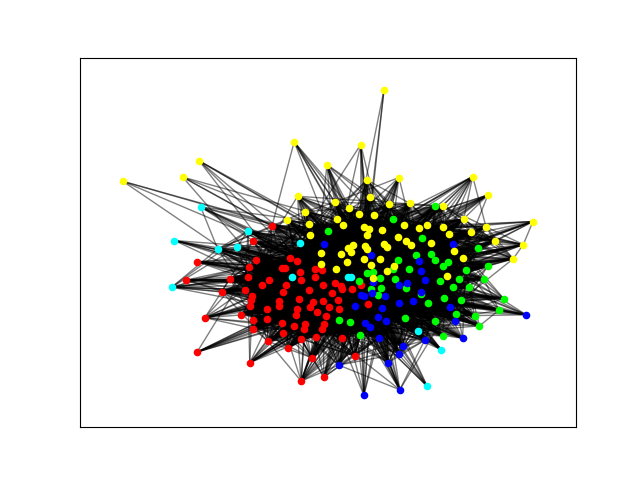
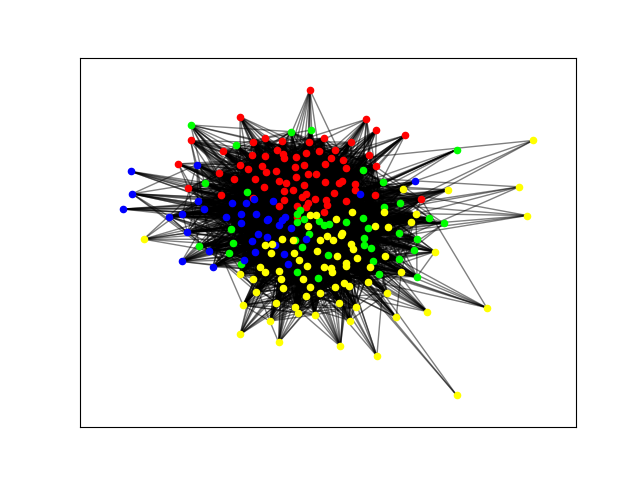
Walktrap Done

Changed region(s): [[0.1875, 0.1875, 0.8438, 0.8438]]

diff --git a/script.py b/script.py
@@ -6,6 +6,9 @@ import networkx as nx
 import matplotlib.pyplot as plt
 import community
 import numpy as np
+from cdlib import algorithms
+
+
 
 
 ###
@@ -87,9 +90,8 @@ plt.savefig('twitterPlot.png')
 plt.close()
 
 ###
-#Louvain Community detection
+# Louvain Community Detection
 ###
-
 
 partition = community.best_partition(g)
 groups = [i for i in set(partition.values())]
@@ -98,17 +100,22 @@ pos = nx.spring_layout(g)
 groups = list(map(lambda x: (x,colors[x]),groups))
 groups = list(map(lambda x: ([nodes for nodes in partition.keys() if partition[nodes] == x[0]],x[1]),groups))
 list(map(lambda x: nx.draw_networkx_nodes(g, pos, x[0], node_color=x[1], node_size=20),groups))
+print(groups)
 nx.draw_networkx_edges(g, pos, alpha=0.5)
 
-
-
-# count = 0
-# for com in set(partition.values()) :
-#     count = count + 1
-#     list_nodes = [nodes for nodes in partition.keys()
-#                                 if partition[nodes] == com]
-#     nx.draw_networkx_nodes(g, pos, list_nodes, node_size = 20,
-#                                 node_color = 'blue')
-
 plt.savefig('louvain.png')
+plt.close()
+
+###
+# Walktrap Community Detection
+###
+
+walktrap = algorithms.walktrap(g)
+walktrap = [(node,index) for index, node in enumerate(walktrap.communities)]
+walktrap = list(map(lambda x: (x[0],colors[x[1]]),walktrap))
+list(map(lambda x: nx.draw_networkx_nodes(g, pos, x[0], node_color=x[1], node_size=20),walktrap))
+print(groups)
+nx.draw_networkx_edges(g, pos, alpha=0.5)
+
+plt.savefig('walktrap.png')
 plt.close()
